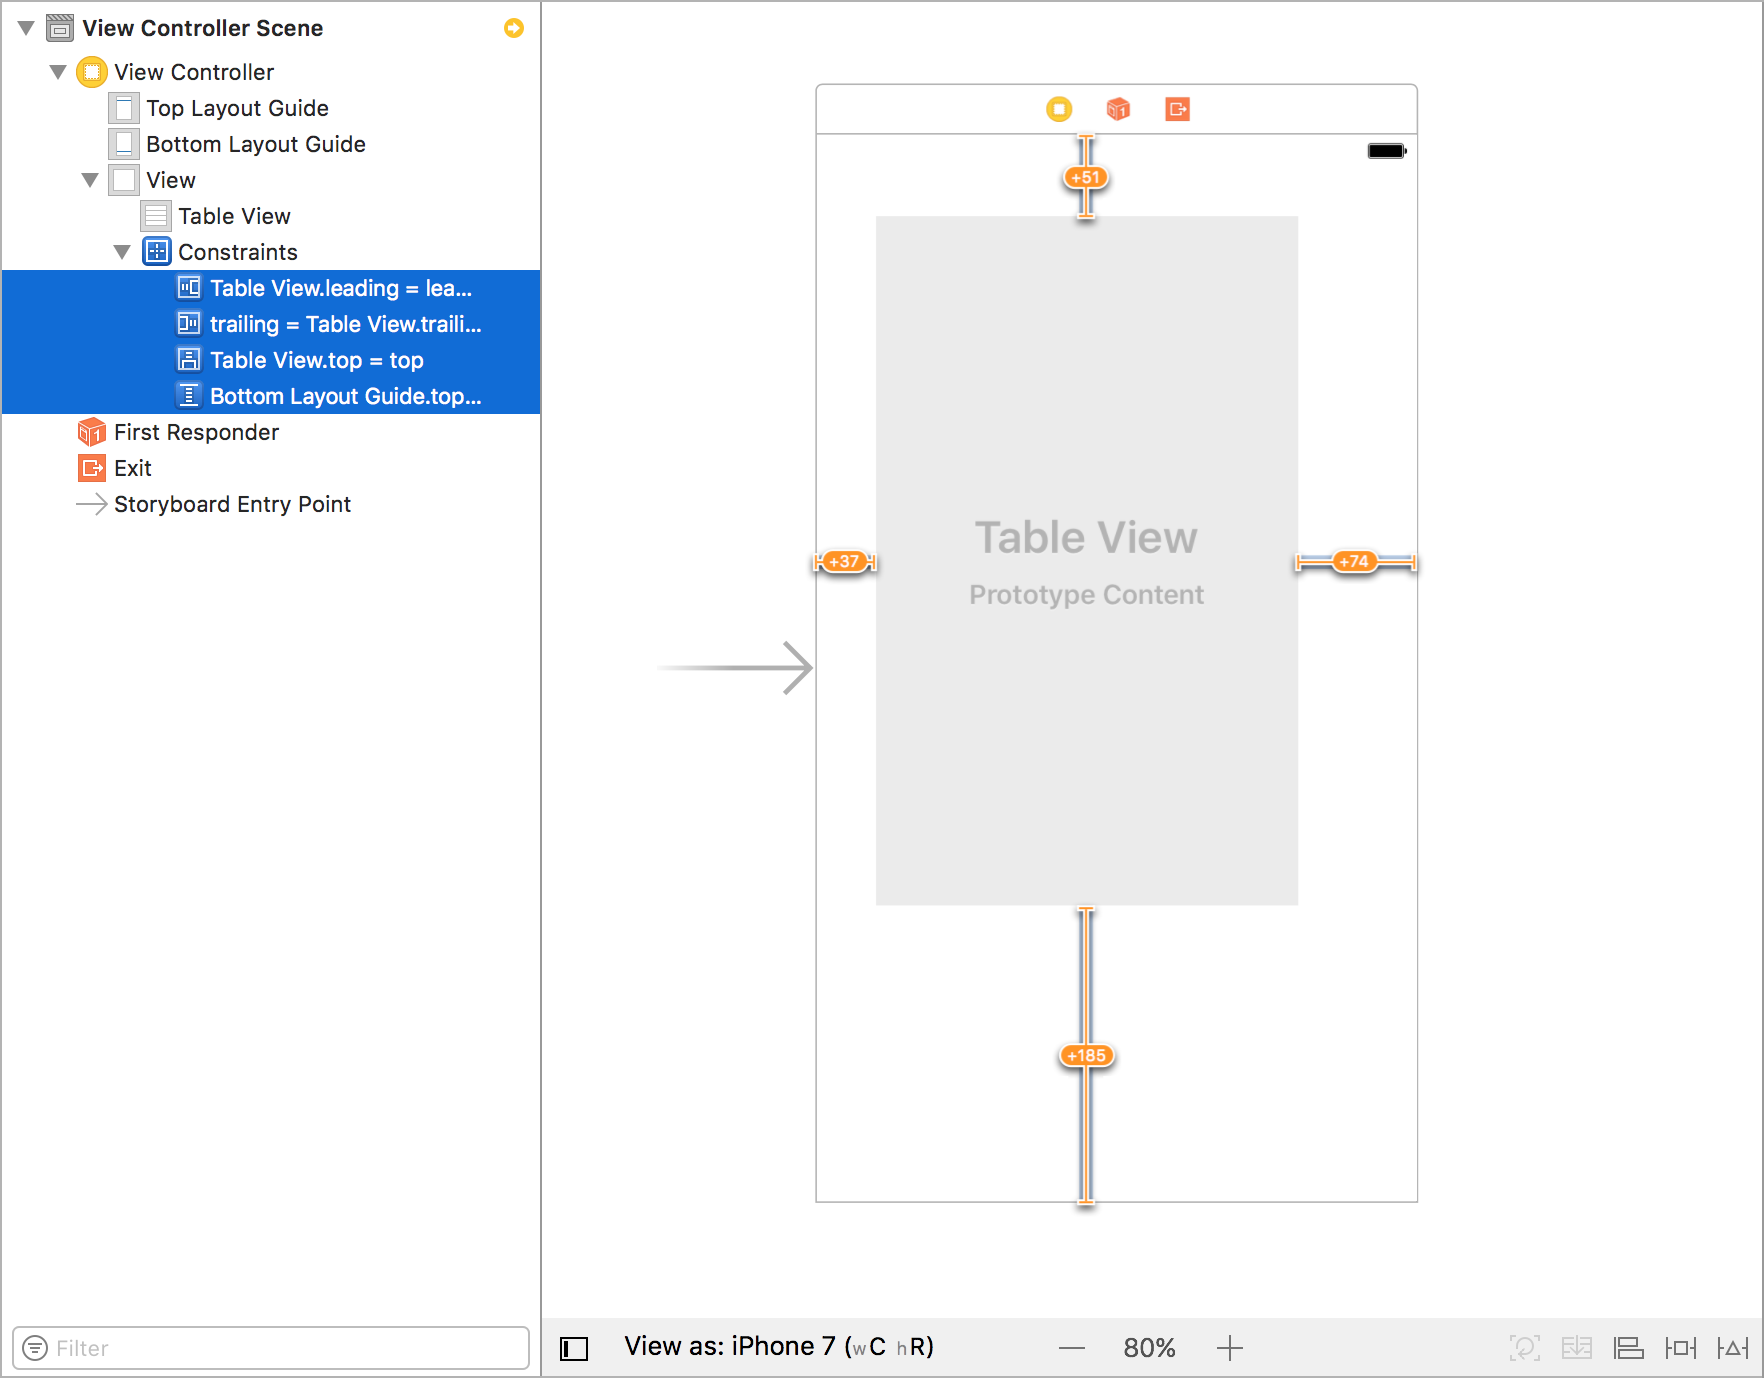
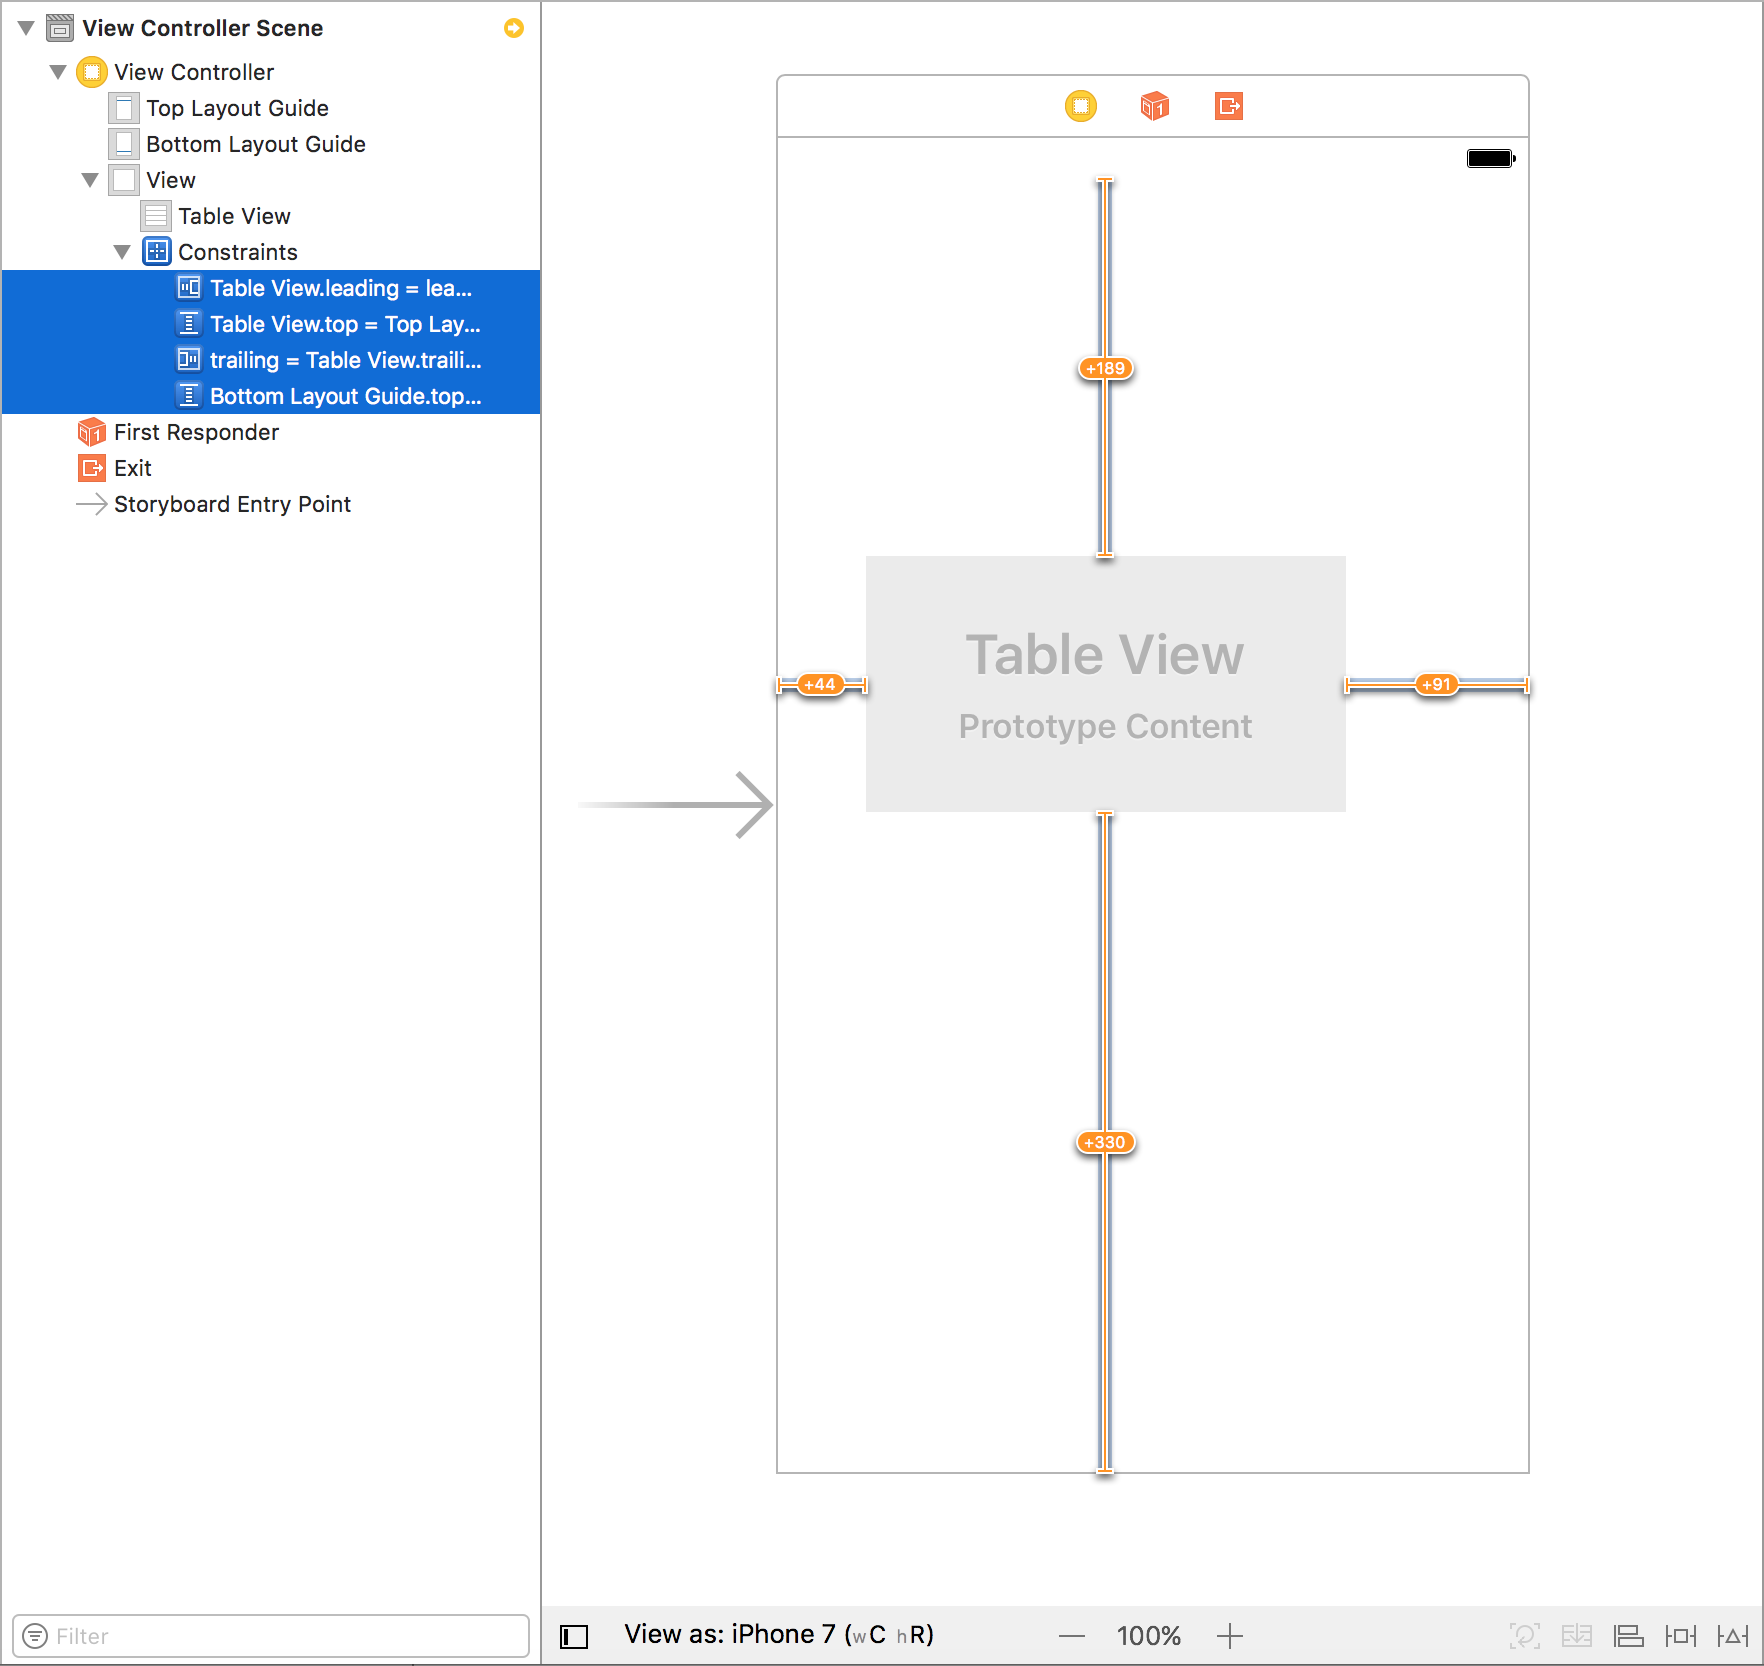
4강을 세부 챕터로 나눔

diff --git a/Chapter-4/README.md b/Chapter-4/README.md
@@ -18,63 +18,3 @@ Todobox를 만들면서 배우게 될 내용은 다음과 같습니다.
 - 텍스트 뷰 (UITextView)
 
 완성된 Todobox 앱의 소스코드와 커밋로그는 [GitHub](https://github.com/devxoul/Todobox)에서 볼 수 있습니다.
-
-## 새 프로젝트 시작하기
-
-우선, [1강에서 했던 것처럼](../Chapter-1/ios-project.html) Xcode에서 새로운 iOS 프로젝트를 생성해봅시다. Product Name에는 'Todobox'를 쓰고, Swift 언어를 선택한 뒤 다음을 눌러 프로젝트가 저장될 디렉토리를 설정합니다.
-
-![new-project](../images/Chapter-4/new-project.png)
-
-### 배포 타겟 설정하기
-
-Xcode에서 프로젝트가 열리면, 가장 먼저 화면 왼쪽에 있는 프로젝트 네비게이터<sup>Project Navigator</sup>에서 'Todobox'라는 프로젝트를 선택해봅시다. 그리고 나오는 화면에서 Project 아래에 있는 Todobox를 선택하여 Deployment Target을 8.0으로 변경합니다. 기본값으로는 Xcode에서 지원하는 가장 최신 버전의 iOS가 선택되어 있는데, 우리는 iOS 8 이상을 지원하도록 합니다.
-
-![deployment-target](../images/Chapter-4/deployment-target.png)
-
-이제 가장 기본적인 프로젝트 환경은 끝났습니다. 이제부터는 사용자가 실제로 사용할 수 있는 UI를 만들어 봅시다.
-
-## 테이블 뷰 다루기
-
-*테이블 뷰<sup>Table View</sup>*는 데이터를 목록 형태로 보여줄 수 있는 가장 기본적인 컴포넌트 단위입니다. 연락처, 음악 등 대부분의 앱에서 테이블 뷰를 활용하고 있습니다. 다른 플랫폼에서는 '리스트 뷰'와 같은 이름을 사용하곤 하는데, iOS에서는 '테이블 뷰'라는 이름을 사용합니다. 그렇다고 해서 열<sup>column</sup>을 가지고 있지는 않습니다. 조금 낯설죠?
-
-### 스토리보드 (Storyboard)
-
-어쨌거나, 애플에서 테이블 뷰라고 했으니 테이블 뷰라고 합시다. 우리는 *인터페이스 빌더<sup>Interface Builder</sup>*에서 테이블 뷰를 추가할 것인데요. 인터페이스 빌더는 드래그 앤 드랍으로 사용자 인터페이스를 구성할 수 있게 해주는 직관적인 도구입니다. 화면의 흐름과, 화면에 들어가는 컴포넌트를 손쉽게 구성할 수 있습니다.
-
-iOS 프로젝트에서는 기본적으로 **`Main.storyboard`**라는 기본 스토리보드 파일을 제공합니다. 바로 아래에는 **`LaunchScreen.storyboard`**라는 스토리보드가 하나 더 있는데요. **`Main.storyboard`**는 앱에서의 전체 화면을 담고 있고, **`LaunchScreen.storyboard`**는 앱이 실행되기 전에 보이는 스플래시<sup>Splash</sup> 화면을 담고 있습니다. **`LaunchScreen.storyboard`**을 다루는 것은 따로 다루지 않을 예정입니다.
-
-![project-navigator](../images/Chapter-4/project-navigator.png)
-
-이제 **`Main.storyboard`** 파일을 선택해서 열어봅시다. 'View Controller'라고 적힌 큰 사각형이 하나 보이고, 그 사각형을 가리키는 화살표가 하나 있네요. *뷰 컨트롤러<sup>View Controller</sup>*는 iOS 앱에서 사용되는 화면 단위라고 이해하면 쉽습니다. 꼭 그렇지만은 않을 수도 있는데요. 일단은 그렇게 이해하는게 편하니 넘어갑시다. 그리고 화살표는 앱이 실행되면 처음 보여지는 화면이라는 것을 나타냅니다.
-
-![main-storyboard](../images/Chapter-4/main-storyboard.png)
-
-### 테이블 뷰 추가하기
-
-1강에서 **Label**을 화면에 추가해본 적이 있죠? 이번에는 같은 방법으로 **Table View**를 화면에 끌어다 놓습니다. 유의할 점은, **Table View Controller**가 아니고 **Table View**여야 합니다. 바로 위에서 뷰 컨트롤러는 화면의 단위라고 했죠? *테이블 뷰 컨트롤러<sup>Table View Controller</sup>*는 테이블 뷰를 기본으로 가지고 있는 화면입니다.
-
-우리는 기본으로 테이블 뷰를 가지고 있는 테이블 뷰 컨트롤러를 사용하는 대신에, 일반 뷰 컨트롤러에 테이블 뷰를 직접 추가할 거예요. 뭐든지 떠먹여주는 것보다는 직접 해보는게 더 빨리 배울 수 있거든요.
-
-![viewcontroller-tableview](../images/Chapter-4/viewcontroller-tableview.png)
-
-덩그러니 있으니 좀 허전하죠? 방금 추가한 테이블 뷰를 화면에 꽉 채워봅시다. 그리고 iPhone 7 시뮬레이터와 iPhone 7 Plus 시뮬레이터로 각각 실행해봅시다.
-
-![tableview-compare-plus](../images/Chapter-4/tableview-compare-plus.png)
-
-뭔가 다른 것을 느꼈나요? 만약 다른 점을 발견했다면 UI 개발자가 되기에 좋은 눈썰미를 가지고 있다고 볼 수 있겠습니다. 만약 발견하지 못했다면 발견한 척 합시다.
-
-다른 점은 바로 테이블 뷰 크기가 화면 크기에 맞게 늘어나지 않았다는 점입니다. iPhone 7 시뮬레이터로 돌렸을 때에는 화면에 꽉 차던 테이블 뷰가, iPhone 7 Plus 시뮬레이터를 사용했더니 iPhone 7 영역만큼만 채워지고 화면 오른쪽과 아래쪽에는 공백이 생겨버렸습니다. 이 현상은 아이폰의 해상도가 다양해지면서 생겼습니다. 우리가 스토리보드에서 만들었던 테이블 뷰는 4.7인치 화면을 기준으로 크기를 정했기 때문에, 5.5인치 화면에서는 4.7인치짜리 테이블 뷰를 보게 되는 것이지요.
-
-여러 해상도에 대응하기 위해 애플에서는 *오토 레이아웃<sup>Auto Layout</sup>*이라는 것을 만들었습니다. 어떤 뷰의 위치와 크기를 절대 수치로 직접 넣지 않고, 관계만을 정의하는 것이죠. 해상도가 다양해지기 전에는 테이블 뷰를 화면에 꽉 채우기 위해서 x, y 좌표를 (0, 0)으로 두고 가로와 세로 크기를 320과 480으로 뒀습니다. 하지만 오토 레이아웃이 사용되면서 부터는 상하좌우를 0으로 만들어버리는 방식을 사용합니다. 화면 위쪽까지의 거리가 0이고, 화면 아래쪽까지의 거리도 0이라면 이 뷰의 높이는 화면 높이와 같아지는 원리죠.
-
-오토 레이아웃을 정의할 때에는 *제약<sup>Constraint</sup>*을 만듭니다. 상하좌우 거리를 0으로 만드는 제약을 테이블 뷰에 걸어버리는 것이죠. 스토리보드에서는 핀<sup>Pin</sup> 버튼(![pin](../images/Chapter-4/pin.png))을 사용해서 오토 레이아웃 제약을 추가할 수 있습니다.
-
-스토리보드에 있는 테이블 뷰를 선택한 뒤 핀 버튼을 클릭해봅시다. 그리고 왼쪽 그림처럼 나오는 값들을 오른쪽과 같이 모두 0으로 바꾸고, 상하좌우 점선을 클릭하여 실선으로 바꿔봅니다.
-
-![new-constraints](../images/Chapter-4/new-constraints.png)
-
-그 다음, 'Add 4 Constraints' 버튼을 선택하여 4개의 제약을 추가합니다. 상하좌우 모두 0으로 만들었는데, 각각 하나의 제약이기 때문에 총 4개의 제약이 됩니다.
-
-오토 레이아웃 제약을 추가하면 스토리보드 왼쪽에 파란색으로 4개의 제약이 추가된 것을 확인할 수 있습니다. 테이블 뷰 크기와 위치를 아무렇게나 조절해보면 노란색 줄이 생기는데요. 오토 레이아웃 제약에서는 상하좌우가 모두 0인데 스토리보드상 테이블 뷰의 좌표가 다르기 때문에 차이가 난다고 알려주는 것입니다. 이상태로 실행해도 정상적으로 작동되는데, 보고 있으면 찜찜하기 때문에 테이블 뷰를 선택하여 크기를 다시 늘려줍니다.
-
-![autolayout-constraints-added](../images/Chapter-4/autolayout-constraints-added.png)

diff --git a/Chapter-4/tableview.md b/Chapter-4/tableview.md
@@ -1,0 +1,49 @@
+## 테이블 뷰 다루기
+
+*테이블 뷰<sup>Table View</sup>*는 데이터를 목록 형태로 보여줄 수 있는 가장 기본적인 컴포넌트 단위입니다. 연락처, 음악 등 대부분의 앱에서 테이블 뷰를 활용하고 있습니다. 다른 플랫폼에서는 '리스트 뷰'와 같은 이름을 사용하곤 하는데, iOS에서는 '테이블 뷰'라는 이름을 사용합니다. 그렇다고 해서 열<sup>column</sup>을 가지고 있지는 않습니다. 조금 낯설죠?
+
+### 스토리보드 (Storyboard)
+
+어쨌거나, 애플에서 테이블 뷰라고 했으니 테이블 뷰라고 합시다. 우리는 *인터페이스 빌더<sup>Interface Builder</sup>*에서 테이블 뷰를 추가할 것인데요. 인터페이스 빌더는 드래그 앤 드랍으로 사용자 인터페이스를 구성할 수 있게 해주는 직관적인 도구입니다. 화면의 흐름과, 화면에 들어가는 컴포넌트를 손쉽게 구성할 수 있습니다.
+
+iOS 프로젝트에서는 기본적으로 **`Main.storyboard`**라는 기본 스토리보드 파일을 제공합니다. 바로 아래에는 **`LaunchScreen.storyboard`**라는 스토리보드가 하나 더 있는데요. **`Main.storyboard`**는 앱에서의 전체 화면을 담고 있고, **`LaunchScreen.storyboard`**는 앱이 실행되기 전에 보이는 스플래시<sup>Splash</sup> 화면을 담고 있습니다. **`LaunchScreen.storyboard`**을 다루는 것은 따로 다루지 않을 예정입니다.
+
+![project-navigator](../images/Chapter-4/project-navigator.png)
+
+이제 **`Main.storyboard`** 파일을 선택해서 열어봅시다. 'View Controller'라고 적힌 큰 사각형이 하나 보이고, 그 사각형을 가리키는 화살표가 하나 있네요. *뷰 컨트롤러<sup>View Controller</sup>*는 iOS 앱에서 사용되는 화면 단위라고 이해하면 쉽습니다. 꼭 그렇지만은 않을 수도 있는데요. 일단은 그렇게 이해하는게 편하니 넘어갑시다. 그리고 화살표는 앱이 실행되면 처음 보여지는 화면이라는 것을 나타냅니다.
+
+![main-storyboard](../images/Chapter-4/main-storyboard.png)
+
+### 테이블 뷰 추가하기
+
+1강에서 **Label**을 화면에 추가해본 적이 있죠? 이번에는 같은 방법으로 **Table View**를 화면에 끌어다 놓습니다. 유의할 점은, **Table View Controller**가 아니고 **Table View**여야 합니다. 바로 위에서 뷰 컨트롤러는 화면의 단위라고 했죠? *테이블 뷰 컨트롤러<sup>Table View Controller</sup>*는 테이블 뷰를 기본으로 가지고 있는 화면입니다.
+
+우리는 기본으로 테이블 뷰를 가지고 있는 테이블 뷰 컨트롤러를 사용하는 대신에, 일반 뷰 컨트롤러에 테이블 뷰를 직접 추가할 거예요.
+
+![viewcontroller-tableview](../images/Chapter-4/viewcontroller-tableview.png)
+
+덩그러니 있으니 좀 허전하죠? 방금 추가한 테이블 뷰를 화면에 꽉 채워봅시다. 그리고 iPhone 7 시뮬레이터와 iPhone 7 Plus 시뮬레이터로 각각 실행해봅시다.
+
+![tableview-compare-plus](../images/Chapter-4/tableview-compare-plus.png)
+
+뭔가 다른 것을 느꼈나요? 만약 다른 점을 발견했다면 UI 개발자가 되기에 좋은 눈썰미를 가지고 있다고 볼 수 있겠습니다. 만약 발견하지 못했다면 발견한 척 합시다.
+
+다른 점은 바로 테이블 뷰 크기가 화면 크기에 맞게 늘어나지 않았다는 점입니다. iPhone 7 시뮬레이터로 돌렸을 때에는 화면에 꽉 차던 테이블 뷰가, iPhone 7 Plus 시뮬레이터를 사용했더니 iPhone 7 영역만큼만 채워지고 화면 오른쪽과 아래쪽에는 공백이 생겨버렸습니다. 이 현상은 아이폰의 해상도가 다양해지면서 생겼습니다. 우리가 스토리보드에서 만들었던 테이블 뷰는 4.7인치 화면을 기준으로 크기를 정했기 때문에, 5.5인치 화면에서는 4.7인치짜리 테이블 뷰를 보게 되는 것이지요.
+
+여러 해상도에 대응하기 위해 애플에서는 *오토 레이아웃<sup>Auto Layout</sup>*이라는 것을 만들었습니다. 어떤 뷰의 위치와 크기를 절대 수치로 직접 넣지 않고, 관계만을 정의하는 것이죠. 해상도가 다양해지기 전에는 테이블 뷰를 화면에 꽉 채우기 위해서 x, y 좌표를 (0, 0)으로 두고 가로와 세로 크기를 320과 480으로 뒀습니다. 하지만 오토 레이아웃이 사용되면서 부터는 상하좌우를 0으로 만들어버리는 방식을 사용합니다. 화면 위쪽까지의 거리가 0이고, 화면 아래쪽까지의 거리도 0이라면 이 뷰의 높이는 화면 높이와 같아지는 원리죠.
+
+오토 레이아웃을 정의할 때에는 *제약<sup>Constraint</sup>*을 만듭니다. 상하좌우 거리를 0으로 만드는 제약을 테이블 뷰에 걸어버리는 것이죠. 스토리보드에서는 핀<sup>Pin</sup> 버튼(![pin](../images/Chapter-4/pin.png))을 사용해서 오토 레이아웃 제약을 추가할 수 있습니다.
+
+스토리보드에 있는 테이블 뷰를 선택한 뒤 핀 버튼을 클릭해봅시다. 그리고 왼쪽 그림처럼 나오는 값들을 오른쪽과 같이 모두 0으로 바꾸고, 상하좌우 점선을 클릭하여 실선으로 바꿔봅니다.
+
+![new-constraints](../images/Chapter-4/new-constraints.png)
+
+그 다음, 'Add 4 Constraints' 버튼을 선택하여 4개의 제약을 추가합니다. 상하좌우 모두 0으로 만들었는데, 각각 하나의 제약이기 때문에 총 4개의 제약이 됩니다. 오토 레이아웃 제약을 추가하면 스토리보드 왼쪽에 파란색으로 4개의 제약이 추가된 것을 확인할 수 있습니다.
+
+![autolayout-constraints-added](../images/Chapter-4/autolayout-constraints-added.png)
+
+테이블 뷰 크기와 위치를 아무렇게나 조절해보면 노란색 줄이 생기는데요. 오토 레이아웃 제약에서는 상하좌우가 모두 0인데 스토리보드상 테이블 뷰의 좌표가 다르기 때문에 차이가 난다고 알려주는 것입니다. 이상태로 실행해도 정상적으로 작동되는데, 보고 있으면 찜찜하기 때문에 테이블 뷰를 선택하여 크기를 다시 늘려줍니다.
+
+![tableview-compare-plus-autolayout](../images/Chapter-4/tableview-compare-plus-autolayout.png)
+
+그리고 나서 아까와 같이 iPhone 7 시뮬레이터와 iPhone 7 Plus 시뮬레이터에서 각각 실행해봅시다. 이제 정상적으로 나오는 것을 볼 수 있습니다.

diff --git a/Chapter-4/new-project.md b/Chapter-4/new-project.md
@@ -1,0 +1,13 @@
+## 새 프로젝트 시작하기
+
+우선, [1강에서 했던 것처럼](../Chapter-1/ios-project.html) Xcode에서 새로운 iOS 프로젝트를 생성해봅시다. Product Name에는 'Todobox'를 쓰고, Swift 언어를 선택한 뒤 다음을 눌러 프로젝트가 저장될 디렉토리를 설정합니다.
+
+![new-project](../images/Chapter-4/new-project.png)
+
+### 배포 타겟 설정하기
+
+Xcode에서 프로젝트가 열리면, 가장 먼저 화면 왼쪽에 있는 프로젝트 네비게이터<sup>Project Navigator</sup>에서 'Todobox'라는 프로젝트를 선택해봅시다. 그리고 나오는 화면에서 Project 아래에 있는 Todobox를 선택하여 Deployment Target을 8.0으로 변경합니다. 기본값으로는 Xcode에서 지원하는 가장 최신 버전의 iOS가 선택되어 있는데, 우리는 iOS 9 이상을 지원하도록 합니다.
+
+![deployment-target](../images/Chapter-4/deployment-target.png)
+
+이제 가장 기본적인 프로젝트 환경은 끝났습니다. 이제부터는 사용자가 실제로 사용할 수 있는 UI를 만들어 봅시다.
